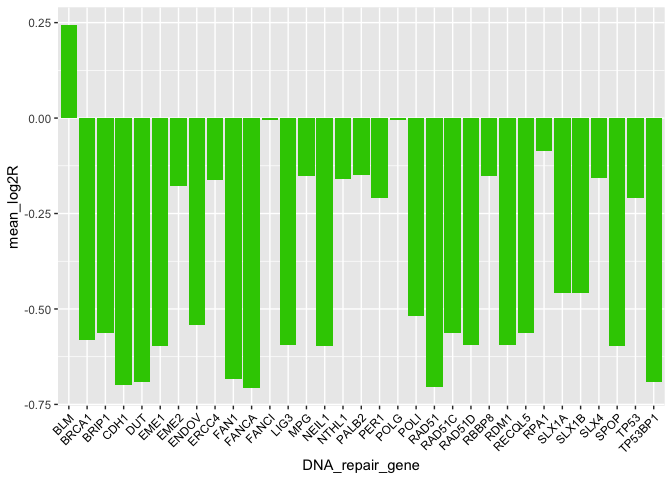
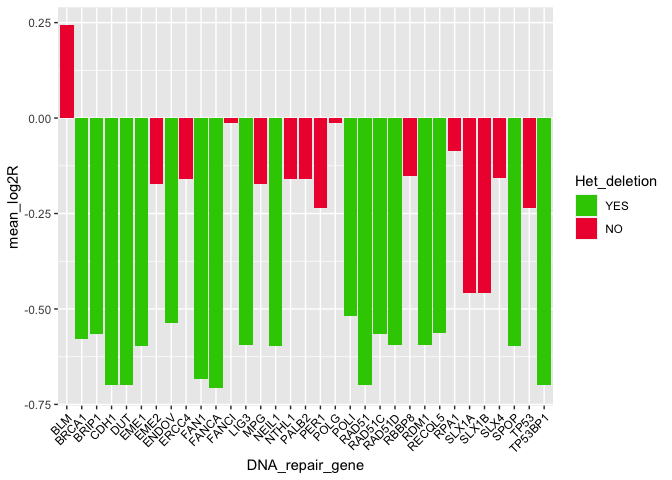
R scripts updates

diff --git a/script/task07_08.md b/script/task07_08.md
@@ -27,13 +27,16 @@ get the log2R.
 getSegments <- function(genename, chr, initialPos, finalPos, segments=segs){
   #select segments that intersect initialPos and finalPs
   goodSegs <- segments[which(
-    (segments[,2] == chr) & 
-      ((segments[,3] >= initialPos & segments[,3] <= finalPos ) |
-         (segments[,4] >= initialPos & segments[,4] <= finalPos ) |
-         (segments[,3] <= initialPos & segments[,4] >= finalPos ) )),]
+    (segments[,2] == chr)
+    & ((segments[,3] >= initialPos & segments[,3] <= finalPos )
+       | (segments[,4] >= initialPos & segments[,4] <= finalPos )
+       | (segments[,3] <= initialPos & segments[,4] >= finalPos ) )),]
   return(cbind(genename, goodSegs))
 }
 ```
+
+Plot the mean log 2 ratio of the segments containing a DNA repair gene
+and filter the ones compatible with heterozygous deletions
 
 ``` r
 DNA_repair_segments <- mapply(getSegments, DNA_repair$gene, DNA_repair$chr, DNA_repair$start, DNA_repair$end)
@@ -41,21 +44,44 @@ DNA_repair_segments <- mapply(getSegments, DNA_repair$gene, DNA_repair$chr, DNA_
 DNA_repair_log2R <- as.data.frame(t(as.data.frame(DNA_repair_segments[7,])))
 colnames(DNA_repair_log2R) <- "mean_log2R"
 DNA_repair_log2R["DNA_repair_gene"] <- rownames(DNA_repair_log2R)
+```
 
-ggplot(data=DNA_repair_log2R, aes(x=DNA_repair_gene, y=mean_log2R))+
-  geom_bar(stat="identity", fill = "#31cb00")+
+Select the genes intersecting with a segment with mean log2 ratio
+compatible with heterozygous deletions.
+
+``` r
+DNA_repair_log2R["Het_deletion"] <- factor("NO", levels = c("YES", "NO"))
+DNA_repair_log2R$Het_deletion[which(DNA_repair_log2R$mean_log2R < (-0.5)
+                               & DNA_repair_log2R$mean_log2R > (-1))] <- "YES"
+
+# extract the genes overlapping with deletions
+het_deleted_genes <- DNA_repair_log2R$DNA_repair_gene[which(DNA_repair_log2R$Het_deletion=="YES")]
+
+ggplot(data=DNA_repair_log2R, aes(x=DNA_repair_gene, y=mean_log2R, fill=Het_deletion))+
+  geom_bar(stat="identity")+
   theme(axis.text.x = element_text(angle=45, hjust=1, vjust=1, 
-                                   colour="black"))
+                                   colour="black"))+
+  scale_fill_manual(values=c("#31cb00", "#ef233c"))
 ```
 
 ![](task07_08_files/figure-gfm/SCNA_DNARepairGenes-1.png)<!-- -->
 
 ## Task 7 - DNA repair genes that overlap both heterozygous deletions and heterozygous SNPs of the patient that are in Clinvar
 
+The only SNP of the patient that is in Clinvar and overlaps with a DNA
+repair gene is found in **BRCA1**, which is also one of the DNA repair
+genes overlapping with heterozygous deletions.
+
+Load the DNA repair genes that overlap with germline SNPs (not only the
+ones from CLINVAR):
+
 ``` r
 germline_overlap <- read.table("overlap_germline.tsv")
 colnames(germline_overlap) <- c("n_SNPs_indels", "DNA_repair_gene")
 ```
+
+Plot the number of germline SNPs and indels overlapping with DNA repair
+genes
 
 ``` r
 ggplot(data=germline_overlap, aes(x=DNA_repair_gene, y=n_SNPs_indels))+
@@ -70,7 +96,22 @@ ggplot(data=germline_overlap, aes(x=DNA_repair_gene, y=n_SNPs_indels))+
   # ggtitle("Number of germline SNPs and indels overlapping with DNA repair genes")
 ```
 
+Find which DNA repair genes presenting germline SNPs also overlaps with
+an heteroxygous deletion
+
+``` r
+SNP_deletion_overlap <- germline_overlap$DNA_repair_gene[which(germline_overlap$DNA_repair_gene 
+                                                               %in% het_deleted_genes)]
+
+SNP_deletion_overlap
+```
+
+    ##  [1] "BRCA1"   "BRIP1"   "CDH1"    "EME1"    "ENDOV"   "FAN1"    "LIG3"   
+    ##  [8] "NEIL1"   "POLI"    "RAD51C"  "RDM1"    "RECQL5"  "TP53BP1"
+
 ## Task 8 - Determine which DNA repair genes overlap both heterozygous deletions and somatic point mutations of the patient
+
+Load the DNA repair genes overlapping with somatic SNVs and indels:
 
 ``` r
 somatic_indel <- read.table("somatic_indel_overlap.tsv")
@@ -84,6 +125,9 @@ somatic_pm$type <- "SNV"
 somatic_overlap <- rbind(somatic_indel, somatic_pm)
 ```
 
+Plot the number of somatic SNVs and indels overlapping with DNA repair
+genes
+
 ``` r
 ggplot(data=somatic_overlap, aes(x=DNA_repair_gene, y=count, fill=type))+
   geom_bar(stat="identity")+
@@ -94,3 +138,15 @@ ggplot(data=somatic_overlap, aes(x=DNA_repair_gene, y=count, fill=type))+
 ```
 
 ![](task07_08_files/figure-gfm/somatic_overlap-1.png)<!-- -->
+
+Find which DNA repair genes presenting germline SNPs also overlaps with
+an heteroxygous deletion
+
+``` r
+somatic_deletion_overlap <- somatic_overlap$DNA_repair_gene[which(somatic_overlap$DNA_repair_gene
+                                                                  %in% het_deleted_genes)]
+
+somatic_deletion_overlap
+```
+
+    ## [1] "ENDOV"  "BRCA1"  "RAD51C"

diff --git a/script/task10.md b/script/task10.md
@@ -129,104 +129,3 @@ the samples, no NAs were present. The analysis also detected that there
 were no changes between two homozygous variants (AA\<-\>BB) but only
 changes from homozygous to heterozygous genotype and the opposite
 (AA/BB\<-\>AB)(2482)
-
-## SPIA with somatic SNVs
-
-Let’s prepare the files using the somatic SNVs detected during *task 6*
-(`somatic.pm.vcf`).
-
-``` bash
-grep -E "(^#|0/1)" somatic.pm.vcf > ./task10/somatic.het.vcf
-```
-
-One SNV was discarded because not usable by ASEReadCounter
-
-``` bash
-grep -v "G/T" somatic.het.vcf > somatic.het2.vcf
-```
-
-``` bash
-java -jar ../Tools/GenomeAnalysisTK.jar -T ASEReadCounter \
--R human_g1k_v37.fasta \
--o ./task10/control.somatic.csv \
--I Control.sorted.dedup.realigned.recal.bam \
--sites ./task10/somatic.het2.vcf  \
--U ALLOW_N_CIGAR_READS \
--minDepth 20 \
---minMappingQuality 20 \
---minBaseQuality 20
-```
-
-``` bash
-java -jar ../Tools/GenomeAnalysisTK.jar -T ASEReadCounter \
--R human_g1k_v37.fasta \
--o ./task10/tumor.somatic.csv \
--I Tumor.sorted.dedup.realigned.recal.bam \
--sites ./task10/somatic.het2.vcf  \
--U ALLOW_N_CIGAR_READS \
--minDepth 20 \
---minMappingQuality 20 \
---minBaseQuality 20
-```
-
-Dataset preparation for the SPIA test:
-
-``` r
-control_somatic <-  fread("control.somatic.csv",data.table=F)
-control_somatic_af <-  data.frame(control = control_somatic$altCount/control_somatic$totalCount)
-rownames(control_somatic_af) <- control_somatic$position
-
-tumor_somatic <- fread("tumor.somatic.csv",data.table=F)
-tumor_somatic_af <- data.frame(tumor = tumor_somatic$altCount/tumor_somatic$totalCount)
-rownames(tumor_somatic_af) <- tumor_somatic$position
-
-genotype_somatic <- merge(control_somatic_af, tumor_somatic_af, by=0)
-genotype_somatic$control[-which(genotype_somatic$control %in% c(0,1))] <- 2
-genotype_somatic$tumor[-which(genotype_somatic$tumor %in% c(0,1))] <- 2
-colnames(genotype_somatic) <- c("variantID", "control", "tumor")
-```
-
-Perform the SPIA test (same parameters as before):
-
-``` r
-SPIA_somatic <-  SPIATest(x = genotype_somatic, row.names = TRUE, test.param = spia_parameters) 
-```
-
-    ## .
-
-``` r
-result_somatic <- t(as.data.frame(SPIA_somatic["SPIAresult"]))
-result_somatic
-```
-
-    ##                                 [,1]       
-    ## SPIAresult.Cell_1               "control"  
-    ## SPIAresult.Cell_2               "tumor"    
-    ## SPIAresult.Distance             "0.0044433"
-    ## SPIAresult.SPIA_Score           "Similar"  
-    ## SPIAresult.SNP_available        "7652"     
-    ## SPIAresult.Total_SNP            "7652"     
-    ## SPIAresult.One_SNP_NA           "0"        
-    ## SPIAresult.Bot_SNP_NA           "0"        
-    ## SPIAresult.Diff_AvsB_or_BvsA    "0"        
-    ## SPIAresult.Diff_AorBvsAB_or_vic "34"       
-    ## SPIAresult.DiffABvsAorB         "24"       
-    ## SPIAresult.counterBothHomoz     "0"        
-    ## SPIAresult.counterBothHeter     "7618"
-
-``` r
-res2plot <- data.frame(counts = as.numeric(result_somatic[c(9,10,12,13),]))
-rownames(res2plot) <- c("AA<->BB", "AA/BB<->AB", "Hom-Hom", "Het-Het")
-
-ggplot(data=res2plot, aes(x=rownames(res2plot), y=counts)) +
-  geom_bar(stat="identity", width = 0.5, fill="#70e000")+
-  xlab(NULL)
-```
-
-![](task10_files/figure-gfm/spia_somatic_plot-1.png)<!-- -->
-
-The results give a SPIA score of **0.0044433**, classifying the samples
-as similar. In no cases both the samples show homozygous genotype, only
-in a few cases (34) there is a change from homozygous to heterozygous
-genotype and in most of the SNVs (7618) both the samples have and
-maintain a heterozygous genotype.

diff --git a/script/task09.md b/script/task09.md
@@ -104,14 +104,14 @@ bt <- compute_beta_table(seg, pileup.tumor, pileup.control, min_required_snps=3,
 ```
 
     ## Computed beta table of sample "Sample.1"
-    ##  Number of processed segments: 202
-    ##  Number of segments with valid beta: 92 (46%)
+    ##  Number of processed segments: 175
+    ##  Number of segments with valid beta: 77 (44%)
     ##  Quantiles of input segment lenghts:
-    ##   0%  :      48.0
-    ##   25% :     301.0
-    ##   50% :    8980.5
-    ##   75% : 1486722.5
-    ##   100%:28590336.0
+    ##   0%  :      48
+    ##   25% :     301
+    ##   50% :    9330
+    ##   75% : 1635036
+    ##   100%:28590336
     ##  Quantiles of input segment coverage:
     ##   0%  : 26.00000
     ##   25% : 46.97959
@@ -119,11 +119,11 @@ bt <- compute_beta_table(seg, pileup.tumor, pileup.control, min_required_snps=3,
     ##   75% : 71.29787
     ##   100%:201.00000
     ##  Quantiles of number of informative SNPs per input segment:
-    ##   0%  :  0.0
-    ##   25% :  0.0
-    ##   50% :  0.5
-    ##   75% : 26.0
-    ##   100%:314.0
+    ##   0%  :  0
+    ##   25% :  0
+    ##   50% :  0
+    ##   75% : 41
+    ##   100%:392
 
 ``` r
 # check n_beta
@@ -149,7 +149,7 @@ pl.table
 ```
 
     ##     sample ploidy
-    ## 1 Sample.1   2.24
+    ## 1 Sample.1   2.25
 
   - With the *ploidy* and *beta* tables it is possible to calculate the
     **admixture**: the percentage of non-tumor cells in a tumor sample
@@ -169,7 +169,7 @@ adm.table
 ```
 
     ##            sample  adm adm.min adm.max
-    ## Sample.1 Sample.1 0.36    0.26    0.44
+    ## Sample.1 Sample.1 0.36    0.26    0.43
 
 To visualize the results, plot *beta* against *LogR* values for each
 genomic segment. Red circels represent the expected values of
@@ -289,7 +289,7 @@ TPES_purity(ID = "Sample.1", SEGfile = seg,
 ```
 
     ##            sample purity purity.min purity.max n.segs n.SNVs  RMB BandWidth
-    ## Sample.1 Sample.1   0.94       0.94       0.94     24      1 0.47     0.019
+    ## Sample.1 Sample.1   0.94       0.94       0.94     21      1 0.47     0.019
     ##                     log
     ## Sample.1 computation ok
 

diff --git a/script/task05_R.md b/script/task05_R.md
@@ -32,6 +32,8 @@ segmentation (CBS). CBS is performed by the `segment` function, that
 segments the log2ratio data in regions with equal copy number.
 
 ``` r
+set.seed(1)
+
 CNA.object <-CNA(genomdat = cn$adjusted_log_ratio, 
                  chrom = cn$chrom,
                  maploc = cn$chr_start, data.type = 'logratio')
@@ -57,14 +59,6 @@ plot(segs, main="CBS, alpha=0.5", plot.type="w")
 
 ![](task05_R_files/figure-gfm/SCNA_plot-1.png)<!-- -->
 
-Find the number of segments compatible with heterozygous deletions:
-
-``` r
-nrow(segs2[which(segs2$seg.mean < (-0.5)),])
-```
-
-    ## [1] 114
-
 Plot with a histogram the distribution of log2\_ratios of all segments
 detected with CBS.
 
@@ -79,9 +73,37 @@ hist(segs2$seg.mean,
 
 ![](task05_R_files/figure-gfm/segmentation_histo-1.png)<!-- -->
 
+Find the number of segments compatible with heterozygous deletions:
+
+``` r
+het_del_segs <- segs2[which(segs2$seg.mean < (-0.5)
+                            & segs2$seg.mean > (-1)),]
+
+# Number of segments compatible with heterozygous deletion
+nrow(het_del_segs)
+```
+
+    ## [1] 64
+
+``` r
+# Number of segments in total
+nrow(segs2)
+```
+
+    ## [1] 175
+
+Write a .bed file containing the locations of all segments compatible
+with heterozygous deletions
+
+``` r
+write.table(het_del_segs[c(2,3,4,1)], file=file.path(folder,"heterozygous.deletions.bed"), 
+            row.names=F, col.names=F, quote=F, sep="\t")
+```
+
 Write a file `SCNA.copynumber.called.seg`, useful for visualization with
 IGV.
 
 ``` r
-write.table(segs2, file=file.path(folder,"SCNA.copynumber.called.seg"), row.names=F, col.names=T, quote=F, sep="\t")
+write.table(segs2, file=file.path(folder,"SCNA.copynumber.called.seg"), 
+            row.names=F, col.names=T, quote=F, sep="\t")
 ```
